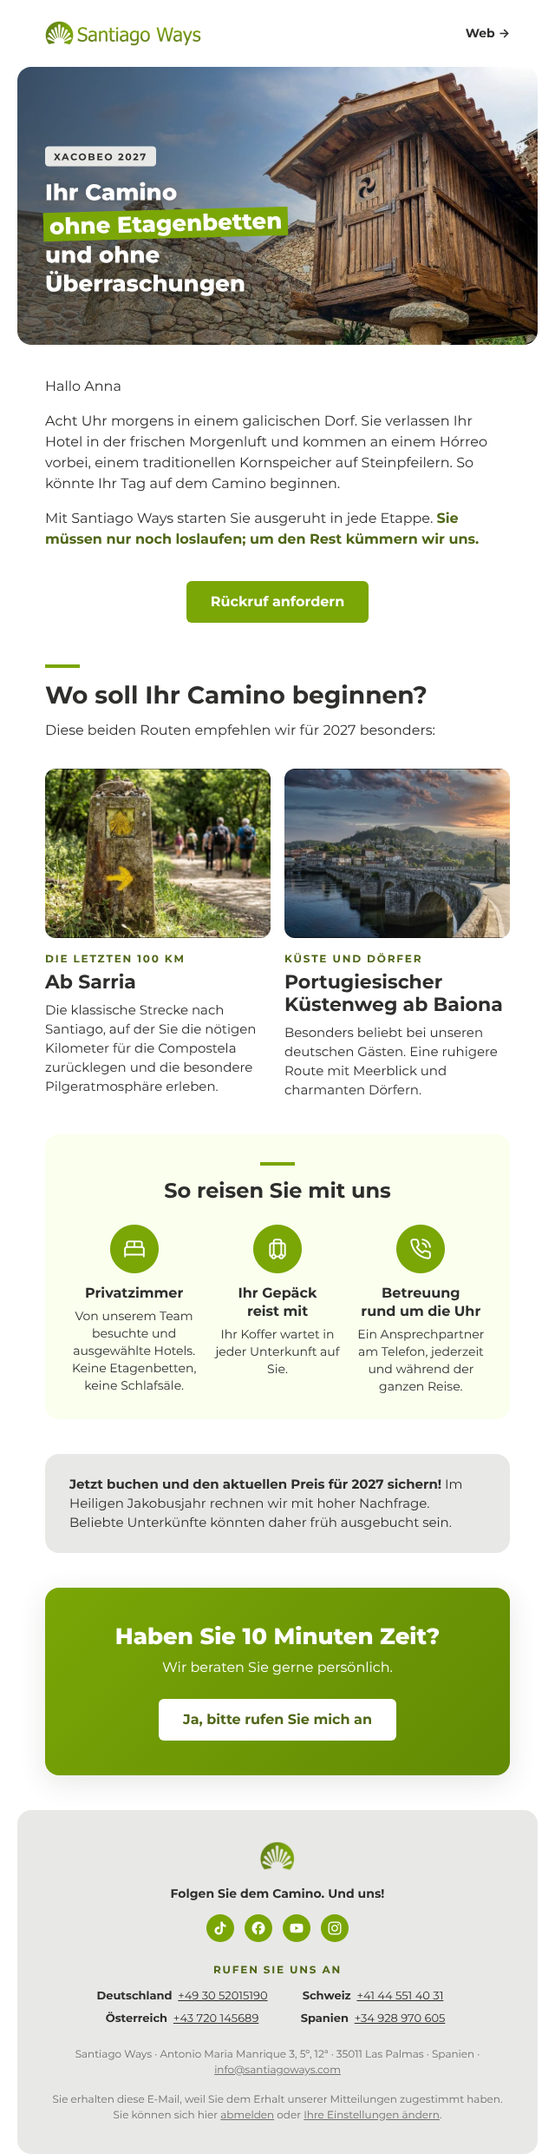
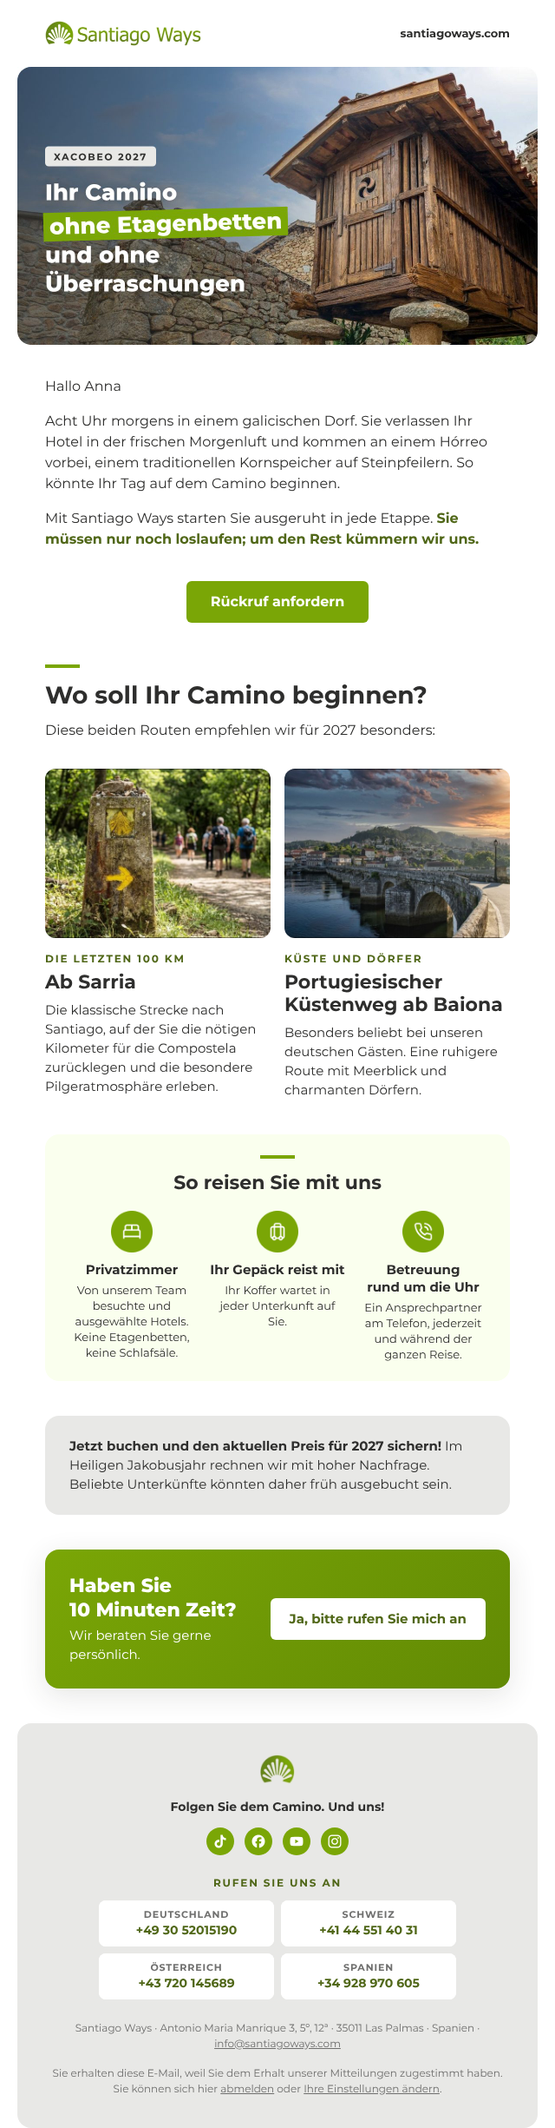
Compacta ventajas y cierre, teléfonos del pie en tarjetas y dominio en la cabecera
Claude-Session: https://claude.ai/code/session_01Me985ukrjjPqHCtXmJhT7t

Changed region(s): [[0.0312, 0.0, 0.9688, 0.9927], [0.0938, 0.0, 0.125, 0.031]]

diff --git a/emails/2026-10-push-de-envio1/email.html b/emails/2026-10-push-de-envio1/email.html
@@ -33,9 +33,14 @@
       .ruta-img { width: 100% !important; max-width: 100% !important; height: auto !important; }
       .ruta-t { font-size: 17px !important; line-height: 21px !important; }
       .ruta-p { font-size: 14px !important; line-height: 20px !important; }
-      .ventaja { display: block !important; width: 100% !important; padding: 0 0 22px !important; }
-      .tel-pie { display: block !important; width: 100% !important; }
-      .cierre { padding: 32px 16px !important; }
+      .ventaja { padding: 0 3px !important; }
+      .ventaja-ico { width: 40px !important; height: 40px !important; }
+      .ventaja-t { font-size: 13px !important; line-height: 17px !important; }
+      .ventaja-p { font-size: 12px !important; line-height: 16px !important; }
+      .cierre { padding: 24px 20px !important; }
+      .cierre-txt, .cierre-btn { display: block !important; width: 100% !important; text-align: left !important; }
+      .cierre-btn { padding: 16px 0 0 !important; }
+      .cierre-btn-t { float: none !important; }
     }
   </style>
 </head>
@@ -57,8 +62,8 @@
                   <td align="left" valign="middle">
                     <a href="https://santiagoways.com/de/?utm_source=zoho_campaigns&amp;utm_medium=newsletter&amp;utm_campaign=push_de&amp;utm_content=envio1" target="_blank"><img src="https://campaigns.zoho.com/campaigns/org635901702/ImageDisplayAction.do?imgName=logo_santiago_ways.png&amp;folderId=764465000000446002&amp;currentTime=1791994950368&amp;zx=1365ac70f" width="180" alt="Santiago Ways" style="display:block; border:0; width:180px; max-width:180px; height:auto;"></a>
                   </td>
-                  <td align="right" valign="middle" style="font-family:'Montserrat', 'Century Gothic', 'Avenir Next', Avenir, 'Segoe UI', Arial, Helvetica, sans-serif; font-size:14px; line-height:20px; font-weight:700;">
-                    <a href="https://santiagoways.com/de/?utm_source=zoho_campaigns&amp;utm_medium=newsletter&amp;utm_campaign=push_de&amp;utm_content=envio1" target="_blank" style="color:#2E2E2D; text-decoration:none;">Web&nbsp;&rarr;</a>
+                  <td align="right" valign="middle" style="font-family:'Montserrat', 'Century Gothic', 'Avenir Next', Avenir, 'Segoe UI', Arial, Helvetica, sans-serif; font-size:13px; line-height:20px; font-weight:600;">
+                    <a href="https://santiagoways.com/de/?utm_source=zoho_campaigns&amp;utm_medium=newsletter&amp;utm_campaign=push_de&amp;utm_content=envio1" target="_blank" style="color:#2E2E2D; text-decoration:none;">santiagoways.com</a>
                   </td>
                 </tr>
               </table>
@@ -131,25 +136,25 @@
             <td class="pad" style="padding:0 32px 40px;">
               <table role="presentation" width="100%" cellpadding="0" cellspacing="0" border="0">
                 <tr>
-                  <td bgcolor="#FAFFEE" style="background-color:#FAFFEE; border-radius:16px; padding:32px 20px 28px; font-family:'Montserrat', 'Century Gothic', 'Avenir Next', Avenir, 'Segoe UI', Arial, Helvetica, sans-serif;">
+                  <td bgcolor="#FAFFEE" style="background-color:#FAFFEE; border-radius:16px; padding:24px 16px 22px; font-family:'Montserrat', 'Century Gothic', 'Avenir Next', Avenir, 'Segoe UI', Arial, Helvetica, sans-serif;">
                     <table role="presentation" cellpadding="0" cellspacing="0" border="0" align="center" style="margin:0 auto 14px;"><tr><td width="40" height="4" bgcolor="#7AA606" style="width:40px; height:4px; background-color:#7AA606; font-size:0; line-height:0;">&nbsp;</td></tr></table>
-                    <h2 class="h2" style="margin:0 0 24px; font-family:'Montserrat', 'Century Gothic', 'Avenir Next', Avenir, 'Segoe UI', Arial, Helvetica, sans-serif; font-size:24px; line-height:30px; font-weight:700; color:#2E2E2D; text-align:center;">So reisen Sie mit uns</h2>
+                    <h2 class="h2 ventaja-h" style="margin:0 0 18px; font-family:'Montserrat', 'Century Gothic', 'Avenir Next', Avenir, 'Segoe UI', Arial, Helvetica, sans-serif; font-size:22px; line-height:28px; font-weight:700; color:#2E2E2D; text-align:center;">So reisen Sie mit uns</h2>
                     <table role="presentation" width="100%" cellpadding="0" cellspacing="0" border="0">
                       <tr>
-                        <td class="col ventaja" width="33%" valign="top" align="center" style="width:33%; padding:0 8px; font-family:'Montserrat', 'Century Gothic', 'Avenir Next', Avenir, 'Segoe UI', Arial, Helvetica, sans-serif; color:#2E2E2D;">
-                          <img src="img/ventaja-habitacion.png" width="56" height="56" alt="" style="display:block; border:0; width:56px; height:56px; margin:0 auto 12px;">
-                          <p style="margin:0 0 6px; font-size:16px; line-height:21px; font-weight:700; color:#2E2E2D;">Privatzimmer</p>
-                          <p style="margin:0; font-size:14px; line-height:20px; color:#2E2E2D;">Von unserem Team besuchte und ausgewählte Hotels. Keine Etagenbetten, keine Schlafsäle.</p>
+                        <td class="ventaja" width="33%" valign="top" align="center" style="width:33%; padding:0 6px; font-family:'Montserrat', 'Century Gothic', 'Avenir Next', Avenir, 'Segoe UI', Arial, Helvetica, sans-serif; color:#2E2E2D;">
+                          <img src="img/ventaja-habitacion.png" class="ventaja-ico" width="48" height="48" alt="" style="display:block; border:0; width:48px; height:48px; margin:0 auto 10px;">
+                          <p class="ventaja-t" style="margin:0 0 4px; font-size:15px; line-height:20px; font-weight:700; color:#2E2E2D;">Privatzimmer</p>
+                          <p class="ventaja-p" style="margin:0; font-size:13px; line-height:18px; color:#2E2E2D;">Von unserem Team besuchte und ausgewählte Hotels. Keine Etagenbetten, keine Schlafsäle.</p>
                         </td>
-                        <td class="col ventaja" width="33%" valign="top" align="center" style="width:33%; padding:0 8px; font-family:'Montserrat', 'Century Gothic', 'Avenir Next', Avenir, 'Segoe UI', Arial, Helvetica, sans-serif; color:#2E2E2D;">
-                          <img src="img/ventaja-equipaje.png" width="56" height="56" alt="" style="display:block; border:0; width:56px; height:56px; margin:0 auto 12px;">
-                          <p style="margin:0 0 6px; font-size:16px; line-height:21px; font-weight:700; color:#2E2E2D;">Ihr Gepäck reist&nbsp;mit</p>
-                          <p style="margin:0; font-size:14px; line-height:20px; color:#2E2E2D;">Ihr Koffer wartet in jeder Unterkunft auf Sie.</p>
+                        <td class="ventaja" width="33%" valign="top" align="center" style="width:33%; padding:0 6px; font-family:'Montserrat', 'Century Gothic', 'Avenir Next', Avenir, 'Segoe UI', Arial, Helvetica, sans-serif; color:#2E2E2D;">
+                          <img src="img/ventaja-equipaje.png" class="ventaja-ico" width="48" height="48" alt="" style="display:block; border:0; width:48px; height:48px; margin:0 auto 10px;">
+                          <p class="ventaja-t" style="margin:0 0 4px; font-size:15px; line-height:20px; font-weight:700; color:#2E2E2D;">Ihr Gepäck reist&nbsp;mit</p>
+                          <p class="ventaja-p" style="margin:0; font-size:13px; line-height:18px; color:#2E2E2D;">Ihr Koffer wartet in jeder Unterkunft auf Sie.</p>
                         </td>
-                        <td class="col ventaja" width="33%" valign="top" align="center" style="width:33%; padding:0 8px; font-family:'Montserrat', 'Century Gothic', 'Avenir Next', Avenir, 'Segoe UI', Arial, Helvetica, sans-serif; color:#2E2E2D;">
-                          <img src="img/ventaja-asistencia.png" width="56" height="56" alt="" style="display:block; border:0; width:56px; height:56px; margin:0 auto 12px;">
-                          <p style="margin:0 0 6px; font-size:16px; line-height:21px; font-weight:700; color:#2E2E2D;">Betreuung rund&nbsp;um&nbsp;die&nbsp;Uhr</p>
-                          <p style="margin:0; font-size:14px; line-height:20px; color:#2E2E2D;">Ein Ansprechpartner am Telefon, jederzeit und während der ganzen Reise.</p>
+                        <td class="ventaja" width="33%" valign="top" align="center" style="width:33%; padding:0 6px; font-family:'Montserrat', 'Century Gothic', 'Avenir Next', Avenir, 'Segoe UI', Arial, Helvetica, sans-serif; color:#2E2E2D;">
+                          <img src="img/ventaja-asistencia.png" class="ventaja-ico" width="48" height="48" alt="" style="display:block; border:0; width:48px; height:48px; margin:0 auto 10px;">
+                          <p class="ventaja-t" style="margin:0 0 4px; font-size:15px; line-height:20px; font-weight:700; color:#2E2E2D;">Betreuung rund&nbsp;um&nbsp;die&nbsp;Uhr</p>
+                          <p class="ventaja-p" style="margin:0; font-size:13px; line-height:18px; color:#2E2E2D;">Ein Ansprechpartner am Telefon, jederzeit und während der ganzen Reise.</p>
                         </td>
                       </tr>
                     </table>
@@ -177,13 +182,21 @@
             <td class="pad" style="padding:0 32px 40px;">
               <table role="presentation" width="100%" cellpadding="0" cellspacing="0" border="0">
                 <tr>
-                  <td class="cierre" bgcolor="#7AA606" align="center" style="background-color:#7AA606; background-image:linear-gradient(135deg,#7AA606 0%,#628A04 100%); border-radius:16px; box-shadow:0 8px 32px rgba(46,46,45,0.12); padding:40px 32px; font-family:'Montserrat', 'Century Gothic', 'Avenir Next', Avenir, 'Segoe UI', Arial, Helvetica, sans-serif; color:#FFFFFF;">
-                    <p class="h2" style="margin:0 0 8px; font-size:26px; line-height:32px; font-weight:800; color:#FFFFFF;">Haben Sie 10&nbsp;Minuten Zeit?</p>
-                    <p style="margin:0 0 24px; font-size:16px; line-height:24px; font-weight:400; color:#FFFFFF;">Wir beraten Sie gerne persönlich.</p>
-                    <table role="presentation" cellpadding="0" cellspacing="0" border="0" align="center">
+                  <td class="cierre" bgcolor="#7AA606" style="background-color:#7AA606; background-image:linear-gradient(135deg,#7AA606 0%,#628A04 100%); border-radius:16px; box-shadow:0 8px 32px rgba(46,46,45,0.12); padding:28px 28px; font-family:'Montserrat', 'Century Gothic', 'Avenir Next', Avenir, 'Segoe UI', Arial, Helvetica, sans-serif; color:#FFFFFF;">
+                    <table role="presentation" width="100%" cellpadding="0" cellspacing="0" border="0">
                       <tr>
-                        <td bgcolor="#FFFFFF" style="background-color:#FFFFFF; border-radius:6px;">
-                          <a href="https://forms.zohopublic.com/santiagoways/form/rueckruf/formperma/4A1Vr0SY3x6PB5LVbDz1jbqyLyayzFhMqCk7CxDHHfw" target="_blank" style="display:inline-block; padding:14px 28px; font-family:'Montserrat', 'Century Gothic', 'Avenir Next', Avenir, 'Segoe UI', Arial, Helvetica, sans-serif; font-size:16px; line-height:20px; font-weight:700; color:#506718; text-decoration:none; border-radius:6px;">Ja, bitte rufen Sie mich an</a>
+                        <td class="cierre-txt" valign="middle" style="font-family:'Montserrat', 'Century Gothic', 'Avenir Next', Avenir, 'Segoe UI', Arial, Helvetica, sans-serif; color:#FFFFFF;">
+                          <p style="margin:0 0 4px; font-size:22px; line-height:28px; font-weight:800; color:#FFFFFF;">Haben Sie 10&nbsp;Minuten Zeit?</p>
+                          <p style="margin:0; font-size:15px; line-height:22px; font-weight:400; color:#FFFFFF;">Wir beraten Sie gerne persönlich.</p>
+                        </td>
+                        <td class="cierre-btn" valign="middle" align="right" style="padding-left:16px;">
+                          <table role="presentation" cellpadding="0" cellspacing="0" border="0" align="right" class="cierre-btn-t">
+                            <tr>
+                              <td bgcolor="#FFFFFF" style="background-color:#FFFFFF; border-radius:6px;">
+                                <a href="https://forms.zohopublic.com/santiagoways/form/rueckruf/formperma/4A1Vr0SY3x6PB5LVbDz1jbqyLyayzFhMqCk7CxDHHfw" target="_blank" style="display:inline-block; padding:14px 22px; font-family:'Montserrat', 'Century Gothic', 'Avenir Next', Avenir, 'Segoe UI', Arial, Helvetica, sans-serif; font-size:15px; line-height:20px; font-weight:700; color:#506718; text-decoration:none; border-radius:6px; white-space:nowrap;">Ja, bitte rufen Sie mich an</a>
+                              </td>
+                            </tr>
+                          </table>
                         </td>
                       </tr>
                     </table>
@@ -207,9 +220,9 @@
                 </tr>
               </table>
               <p style="margin:0 0 8px; font-size:12px; line-height:16px; font-weight:700; letter-spacing:0.15em; text-transform:uppercase; color:#506718;">Rufen Sie uns an</p>
-              <table role="presentation" width="100%" cellpadding="0" cellspacing="0" border="0" style="margin:0 auto 20px; max-width:440px;">
-                <tr><td class="tel-pie" width="50%" align="center" style="width:50%; padding:4px 6px; font-family:'Montserrat', 'Century Gothic', 'Avenir Next', Avenir, 'Segoe UI', Arial, Helvetica, sans-serif; font-size:13px; line-height:18px; color:#2E2E2D;"><span style="font-weight:700;">Deutschland</span>&nbsp; <a href="tel:+493052015190" style="color:#2E2E2D; text-decoration:underline;">+49 30 52015190</a></td><td class="tel-pie" width="50%" align="center" style="width:50%; padding:4px 6px; font-family:'Montserrat', 'Century Gothic', 'Avenir Next', Avenir, 'Segoe UI', Arial, Helvetica, sans-serif; font-size:13px; line-height:18px; color:#2E2E2D;"><span style="font-weight:700;">Schweiz</span>&nbsp; <a href="tel:+41445514031" style="color:#2E2E2D; text-decoration:underline;">+41 44 551 40 31</a></td></tr>
-                <tr><td class="tel-pie" width="50%" align="center" style="width:50%; padding:4px 6px; font-family:'Montserrat', 'Century Gothic', 'Avenir Next', Avenir, 'Segoe UI', Arial, Helvetica, sans-serif; font-size:13px; line-height:18px; color:#2E2E2D;"><span style="font-weight:700;">Österreich</span>&nbsp; <a href="tel:+43720145689" style="color:#2E2E2D; text-decoration:underline;">+43 720 145689</a></td><td class="tel-pie" width="50%" align="center" style="width:50%; padding:4px 6px; font-family:'Montserrat', 'Century Gothic', 'Avenir Next', Avenir, 'Segoe UI', Arial, Helvetica, sans-serif; font-size:13px; line-height:18px; color:#2E2E2D;"><span style="font-weight:700;">Spanien</span>&nbsp; <a href="tel:+34928970605" style="color:#2E2E2D; text-decoration:underline;">+34 928 970 605</a></td></tr>
+              <table role="presentation" width="100%" cellpadding="0" cellspacing="0" border="0" style="margin:0 auto 20px; max-width:420px;">
+                <tr><td class="tel-pie" width="50%" valign="top" style="width:50%; padding:4px;"><table role="presentation" width="100%" cellpadding="0" cellspacing="0" border="0" style="border-collapse:separate; background-color:#FFFFFF; border-radius:8px;"><tr><td align="center" bgcolor="#FFFFFF" style="background-color:#FFFFFF; border-radius:8px; font-family:'Montserrat', 'Century Gothic', 'Avenir Next', Avenir, 'Segoe UI', Arial, Helvetica, sans-serif;"><a href="tel:+493052015190" style="display:block; padding:9px 6px; color:#2E2E2D; text-decoration:none;"><span style="display:block; font-size:11px; line-height:14px; font-weight:700; letter-spacing:0.08em; text-transform:uppercase; color:#6F6F6E;">Deutschland</span><span style="display:block; margin-top:2px; font-size:14px; line-height:19px; font-weight:700; color:#506718;">+49 30 52015190</span></a></td></tr></table></td><td class="tel-pie" width="50%" valign="top" style="width:50%; padding:4px;"><table role="presentation" width="100%" cellpadding="0" cellspacing="0" border="0" style="border-collapse:separate; background-color:#FFFFFF; border-radius:8px;"><tr><td align="center" bgcolor="#FFFFFF" style="background-color:#FFFFFF; border-radius:8px; font-family:'Montserrat', 'Century Gothic', 'Avenir Next', Avenir, 'Segoe UI', Arial, Helvetica, sans-serif;"><a href="tel:+41445514031" style="display:block; padding:9px 6px; color:#2E2E2D; text-decoration:none;"><span style="display:block; font-size:11px; line-height:14px; font-weight:700; letter-spacing:0.08em; text-transform:uppercase; color:#6F6F6E;">Schweiz</span><span style="display:block; margin-top:2px; font-size:14px; line-height:19px; font-weight:700; color:#506718;">+41 44 551 40 31</span></a></td></tr></table></td></tr>
+                <tr><td class="tel-pie" width="50%" valign="top" style="width:50%; padding:4px;"><table role="presentation" width="100%" cellpadding="0" cellspacing="0" border="0" style="border-collapse:separate; background-color:#FFFFFF; border-radius:8px;"><tr><td align="center" bgcolor="#FFFFFF" style="background-color:#FFFFFF; border-radius:8px; font-family:'Montserrat', 'Century Gothic', 'Avenir Next', Avenir, 'Segoe UI', Arial, Helvetica, sans-serif;"><a href="tel:+43720145689" style="display:block; padding:9px 6px; color:#2E2E2D; text-decoration:none;"><span style="display:block; font-size:11px; line-height:14px; font-weight:700; letter-spacing:0.08em; text-transform:uppercase; color:#6F6F6E;">Österreich</span><span style="display:block; margin-top:2px; font-size:14px; line-height:19px; font-weight:700; color:#506718;">+43 720 145689</span></a></td></tr></table></td><td class="tel-pie" width="50%" valign="top" style="width:50%; padding:4px;"><table role="presentation" width="100%" cellpadding="0" cellspacing="0" border="0" style="border-collapse:separate; background-color:#FFFFFF; border-radius:8px;"><tr><td align="center" bgcolor="#FFFFFF" style="background-color:#FFFFFF; border-radius:8px; font-family:'Montserrat', 'Century Gothic', 'Avenir Next', Avenir, 'Segoe UI', Arial, Helvetica, sans-serif;"><a href="tel:+34928970605" style="display:block; padding:9px 6px; color:#2E2E2D; text-decoration:none;"><span style="display:block; font-size:11px; line-height:14px; font-weight:700; letter-spacing:0.08em; text-transform:uppercase; color:#6F6F6E;">Spanien</span><span style="display:block; margin-top:2px; font-size:14px; line-height:19px; font-weight:700; color:#506718;">+34 928 970 605</span></a></td></tr></table></td></tr>
               </table>
               <p style="margin:0 0 16px; font-size:12px; line-height:18px; color:#6F6F6E;">Santiago Ways · Antonio Maria Manrique 3, 5º, 12ª · 35011 Las Palmas · Spanien · <a href="mailto:info@santiagoways.com" style="color:#6F6F6E; text-decoration:underline;">info@santiagoways.com</a></p>
               <p style="margin:0; font-size:12px; line-height:18px; color:#6F6F6E;">Sie erhalten diese E-Mail, weil Sie dem Erhalt unserer Mitteilungen zugestimmt haben.<br>Sie können sich hier <a href="$[LI:UNSUBSCRIBE]$" target="_blank" style="color:#6F6F6E; text-decoration:underline;">abmelden</a> oder <a href="$[LI:SUB_PREF]$" target="_blank" style="color:#6F6F6E; text-decoration:underline;">Ihre Einstellungen ändern</a>.</p>

diff --git a/emails/2026-10-push-de-envio1/zoho/push-de-envio1.html b/emails/2026-10-push-de-envio1/zoho/push-de-envio1.html
@@ -33,9 +33,14 @@
       .ruta-img { width: 100% !important; max-width: 100% !important; height: auto !important; }
       .ruta-t { font-size: 17px !important; line-height: 21px !important; }
       .ruta-p { font-size: 14px !important; line-height: 20px !important; }
-      .ventaja { display: block !important; width: 100% !important; padding: 0 0 22px !important; }
-      .tel-pie { display: block !important; width: 100% !important; }
-      .cierre { padding: 32px 16px !important; }
+      .ventaja { padding: 0 3px !important; }
+      .ventaja-ico { width: 40px !important; height: 40px !important; }
+      .ventaja-t { font-size: 13px !important; line-height: 17px !important; }
+      .ventaja-p { font-size: 12px !important; line-height: 16px !important; }
+      .cierre { padding: 24px 20px !important; }
+      .cierre-txt, .cierre-btn { display: block !important; width: 100% !important; text-align: left !important; }
+      .cierre-btn { padding: 16px 0 0 !important; }
+      .cierre-btn-t { float: none !important; }
     }
   </style>
 </head>
@@ -57,8 +62,8 @@
                   <td align="left" valign="middle">
                     <a href="https://santiagoways.com/de/?utm_source=zoho_campaigns&amp;utm_medium=newsletter&amp;utm_campaign=push_de&amp;utm_content=envio1" target="_blank"><img src="images/logo-santiago-ways.png" width="180" alt="Santiago Ways" style="display:block; border:0; width:180px; max-width:180px; height:auto;"></a>
                   </td>
-                  <td align="right" valign="middle" style="font-family:'Montserrat', 'Century Gothic', 'Avenir Next', Avenir, 'Segoe UI', Arial, Helvetica, sans-serif; font-size:14px; line-height:20px; font-weight:700;">
-                    <a href="https://santiagoways.com/de/?utm_source=zoho_campaigns&amp;utm_medium=newsletter&amp;utm_campaign=push_de&amp;utm_content=envio1" target="_blank" style="color:#2E2E2D; text-decoration:none;">Web&nbsp;&rarr;</a>
+                  <td align="right" valign="middle" style="font-family:'Montserrat', 'Century Gothic', 'Avenir Next', Avenir, 'Segoe UI', Arial, Helvetica, sans-serif; font-size:13px; line-height:20px; font-weight:600;">
+                    <a href="https://santiagoways.com/de/?utm_source=zoho_campaigns&amp;utm_medium=newsletter&amp;utm_campaign=push_de&amp;utm_content=envio1" target="_blank" style="color:#2E2E2D; text-decoration:none;">santiagoways.com</a>
                   </td>
                 </tr>
               </table>
@@ -131,25 +136,25 @@
             <td class="pad" style="padding:0 32px 40px;">
               <table role="presentation" width="100%" cellpadding="0" cellspacing="0" border="0">
                 <tr>
-                  <td bgcolor="#FAFFEE" style="background-color:#FAFFEE; border-radius:16px; padding:32px 20px 28px; font-family:'Montserrat', 'Century Gothic', 'Avenir Next', Avenir, 'Segoe UI', Arial, Helvetica, sans-serif;">
+                  <td bgcolor="#FAFFEE" style="background-color:#FAFFEE; border-radius:16px; padding:24px 16px 22px; font-family:'Montserrat', 'Century Gothic', 'Avenir Next', Avenir, 'Segoe UI', Arial, Helvetica, sans-serif;">
                     <table role="presentation" cellpadding="0" cellspacing="0" border="0" align="center" style="margin:0 auto 14px;"><tr><td width="40" height="4" bgcolor="#7AA606" style="width:40px; height:4px; background-color:#7AA606; font-size:0; line-height:0;">&nbsp;</td></tr></table>
-                    <h2 class="h2" style="margin:0 0 24px; font-family:'Montserrat', 'Century Gothic', 'Avenir Next', Avenir, 'Segoe UI', Arial, Helvetica, sans-serif; font-size:24px; line-height:30px; font-weight:700; color:#2E2E2D; text-align:center;">So reisen Sie mit uns</h2>
+                    <h2 class="h2 ventaja-h" style="margin:0 0 18px; font-family:'Montserrat', 'Century Gothic', 'Avenir Next', Avenir, 'Segoe UI', Arial, Helvetica, sans-serif; font-size:22px; line-height:28px; font-weight:700; color:#2E2E2D; text-align:center;">So reisen Sie mit uns</h2>
                     <table role="presentation" width="100%" cellpadding="0" cellspacing="0" border="0">
                       <tr>
-                        <td class="col ventaja" width="33%" valign="top" align="center" style="width:33%; padding:0 8px; font-family:'Montserrat', 'Century Gothic', 'Avenir Next', Avenir, 'Segoe UI', Arial, Helvetica, sans-serif; color:#2E2E2D;">
-                          <img src="images/ventaja-habitacion.png" width="56" height="56" alt="" style="display:block; border:0; width:56px; height:56px; margin:0 auto 12px;">
-                          <p style="margin:0 0 6px; font-size:16px; line-height:21px; font-weight:700; color:#2E2E2D;">Privatzimmer</p>
-                          <p style="margin:0; font-size:14px; line-height:20px; color:#2E2E2D;">Von unserem Team besuchte und ausgew&#228;hlte Hotels. Keine Etagenbetten, keine Schlafs&#228;le.</p>
+                        <td class="ventaja" width="33%" valign="top" align="center" style="width:33%; padding:0 6px; font-family:'Montserrat', 'Century Gothic', 'Avenir Next', Avenir, 'Segoe UI', Arial, Helvetica, sans-serif; color:#2E2E2D;">
+                          <img src="images/ventaja-habitacion.png" class="ventaja-ico" width="48" height="48" alt="" style="display:block; border:0; width:48px; height:48px; margin:0 auto 10px;">
+                          <p class="ventaja-t" style="margin:0 0 4px; font-size:15px; line-height:20px; font-weight:700; color:#2E2E2D;">Privatzimmer</p>
+                          <p class="ventaja-p" style="margin:0; font-size:13px; line-height:18px; color:#2E2E2D;">Von unserem Team besuchte und ausgew&#228;hlte Hotels. Keine Etagenbetten, keine Schlafs&#228;le.</p>
                         </td>
-                        <td class="col ventaja" width="33%" valign="top" align="center" style="width:33%; padding:0 8px; font-family:'Montserrat', 'Century Gothic', 'Avenir Next', Avenir, 'Segoe UI', Arial, Helvetica, sans-serif; color:#2E2E2D;">
-                          <img src="images/ventaja-equipaje.png" width="56" height="56" alt="" style="display:block; border:0; width:56px; height:56px; margin:0 auto 12px;">
-                          <p style="margin:0 0 6px; font-size:16px; line-height:21px; font-weight:700; color:#2E2E2D;">Ihr Gep&#228;ck reist&nbsp;mit</p>
-                          <p style="margin:0; font-size:14px; line-height:20px; color:#2E2E2D;">Ihr Koffer wartet in jeder Unterkunft auf Sie.</p>
+                        <td class="ventaja" width="33%" valign="top" align="center" style="width:33%; padding:0 6px; font-family:'Montserrat', 'Century Gothic', 'Avenir Next', Avenir, 'Segoe UI', Arial, Helvetica, sans-serif; color:#2E2E2D;">
+                          <img src="images/ventaja-equipaje.png" class="ventaja-ico" width="48" height="48" alt="" style="display:block; border:0; width:48px; height:48px; margin:0 auto 10px;">
+                          <p class="ventaja-t" style="margin:0 0 4px; font-size:15px; line-height:20px; font-weight:700; color:#2E2E2D;">Ihr Gep&#228;ck reist&nbsp;mit</p>
+                          <p class="ventaja-p" style="margin:0; font-size:13px; line-height:18px; color:#2E2E2D;">Ihr Koffer wartet in jeder Unterkunft auf Sie.</p>
                         </td>
-                        <td class="col ventaja" width="33%" valign="top" align="center" style="width:33%; padding:0 8px; font-family:'Montserrat', 'Century Gothic', 'Avenir Next', Avenir, 'Segoe UI', Arial, Helvetica, sans-serif; color:#2E2E2D;">
-                          <img src="images/ventaja-asistencia.png" width="56" height="56" alt="" style="display:block; border:0; width:56px; height:56px; margin:0 auto 12px;">
-                          <p style="margin:0 0 6px; font-size:16px; line-height:21px; font-weight:700; color:#2E2E2D;">Betreuung rund&nbsp;um&nbsp;die&nbsp;Uhr</p>
-                          <p style="margin:0; font-size:14px; line-height:20px; color:#2E2E2D;">Ein Ansprechpartner am Telefon, jederzeit und w&#228;hrend der ganzen Reise.</p>
+                        <td class="ventaja" width="33%" valign="top" align="center" style="width:33%; padding:0 6px; font-family:'Montserrat', 'Century Gothic', 'Avenir Next', Avenir, 'Segoe UI', Arial, Helvetica, sans-serif; color:#2E2E2D;">
+                          <img src="images/ventaja-asistencia.png" class="ventaja-ico" width="48" height="48" alt="" style="display:block; border:0; width:48px; height:48px; margin:0 auto 10px;">
+                          <p class="ventaja-t" style="margin:0 0 4px; font-size:15px; line-height:20px; font-weight:700; color:#2E2E2D;">Betreuung rund&nbsp;um&nbsp;die&nbsp;Uhr</p>
+                          <p class="ventaja-p" style="margin:0; font-size:13px; line-height:18px; color:#2E2E2D;">Ein Ansprechpartner am Telefon, jederzeit und w&#228;hrend der ganzen Reise.</p>
                         </td>
                       </tr>
                     </table>
@@ -177,13 +182,21 @@
             <td class="pad" style="padding:0 32px 40px;">
               <table role="presentation" width="100%" cellpadding="0" cellspacing="0" border="0">
                 <tr>
-                  <td class="cierre" bgcolor="#7AA606" align="center" style="background-color:#7AA606; background-image:linear-gradient(135deg,#7AA606 0%,#628A04 100%); border-radius:16px; box-shadow:0 8px 32px rgba(46,46,45,0.12); padding:40px 32px; font-family:'Montserrat', 'Century Gothic', 'Avenir Next', Avenir, 'Segoe UI', Arial, Helvetica, sans-serif; color:#FFFFFF;">
-                    <p class="h2" style="margin:0 0 8px; font-size:26px; line-height:32px; font-weight:800; color:#FFFFFF;">Haben Sie 10&nbsp;Minuten Zeit?</p>
-                    <p style="margin:0 0 24px; font-size:16px; line-height:24px; font-weight:400; color:#FFFFFF;">Wir beraten Sie gerne pers&#246;nlich.</p>
-                    <table role="presentation" cellpadding="0" cellspacing="0" border="0" align="center">
+                  <td class="cierre" bgcolor="#7AA606" style="background-color:#7AA606; background-image:linear-gradient(135deg,#7AA606 0%,#628A04 100%); border-radius:16px; box-shadow:0 8px 32px rgba(46,46,45,0.12); padding:28px 28px; font-family:'Montserrat', 'Century Gothic', 'Avenir Next', Avenir, 'Segoe UI', Arial, Helvetica, sans-serif; color:#FFFFFF;">
+                    <table role="presentation" width="100%" cellpadding="0" cellspacing="0" border="0">
                       <tr>
-                        <td bgcolor="#FFFFFF" style="background-color:#FFFFFF; border-radius:6px;">
-                          <a href="https://forms.zohopublic.com/santiagoways/form/rueckruf/formperma/4A1Vr0SY3x6PB5LVbDz1jbqyLyayzFhMqCk7CxDHHfw" target="_blank" style="display:inline-block; padding:14px 28px; font-family:'Montserrat', 'Century Gothic', 'Avenir Next', Avenir, 'Segoe UI', Arial, Helvetica, sans-serif; font-size:16px; line-height:20px; font-weight:700; color:#506718; text-decoration:none; border-radius:6px;">Ja, bitte rufen Sie mich an</a>
+                        <td class="cierre-txt" valign="middle" style="font-family:'Montserrat', 'Century Gothic', 'Avenir Next', Avenir, 'Segoe UI', Arial, Helvetica, sans-serif; color:#FFFFFF;">
+                          <p style="margin:0 0 4px; font-size:22px; line-height:28px; font-weight:800; color:#FFFFFF;">Haben Sie 10&nbsp;Minuten Zeit?</p>
+                          <p style="margin:0; font-size:15px; line-height:22px; font-weight:400; color:#FFFFFF;">Wir beraten Sie gerne pers&#246;nlich.</p>
+                        </td>
+                        <td class="cierre-btn" valign="middle" align="right" style="padding-left:16px;">
+                          <table role="presentation" cellpadding="0" cellspacing="0" border="0" align="right" class="cierre-btn-t">
+                            <tr>
+                              <td bgcolor="#FFFFFF" style="background-color:#FFFFFF; border-radius:6px;">
+                                <a href="https://forms.zohopublic.com/santiagoways/form/rueckruf/formperma/4A1Vr0SY3x6PB5LVbDz1jbqyLyayzFhMqCk7CxDHHfw" target="_blank" style="display:inline-block; padding:14px 22px; font-family:'Montserrat', 'Century Gothic', 'Avenir Next', Avenir, 'Segoe UI', Arial, Helvetica, sans-serif; font-size:15px; line-height:20px; font-weight:700; color:#506718; text-decoration:none; border-radius:6px; white-space:nowrap;">Ja, bitte rufen Sie mich an</a>
+                              </td>
+                            </tr>
+                          </table>
                         </td>
                       </tr>
                     </table>
@@ -207,9 +220,9 @@
                 </tr>
               </table>
               <p style="margin:0 0 8px; font-size:12px; line-height:16px; font-weight:700; letter-spacing:0.15em; text-transform:uppercase; color:#506718;">Rufen Sie uns an</p>
-              <table role="presentation" width="100%" cellpadding="0" cellspacing="0" border="0" style="margin:0 auto 20px; max-width:440px;">
-                <tr><td class="tel-pie" width="50%" align="center" style="width:50%; padding:4px 6px; font-family:'Montserrat', 'Century Gothic', 'Avenir Next', Avenir, 'Segoe UI', Arial, Helvetica, sans-serif; font-size:13px; line-height:18px; color:#2E2E2D;"><span style="font-weight:700;">Deutschland</span>&nbsp; <a href="tel:+493052015190" style="color:#2E2E2D; text-decoration:underline;">+49 30 52015190</a></td><td class="tel-pie" width="50%" align="center" style="width:50%; padding:4px 6px; font-family:'Montserrat', 'Century Gothic', 'Avenir Next', Avenir, 'Segoe UI', Arial, Helvetica, sans-serif; font-size:13px; line-height:18px; color:#2E2E2D;"><span style="font-weight:700;">Schweiz</span>&nbsp; <a href="tel:+41445514031" style="color:#2E2E2D; text-decoration:underline;">+41 44 551 40 31</a></td></tr>
-                <tr><td class="tel-pie" width="50%" align="center" style="width:50%; padding:4px 6px; font-family:'Montserrat', 'Century Gothic', 'Avenir Next', Avenir, 'Segoe UI', Arial, Helvetica, sans-serif; font-size:13px; line-height:18px; color:#2E2E2D;"><span style="font-weight:700;">&#214;sterreich</span>&nbsp; <a href="tel:+43720145689" style="color:#2E2E2D; text-decoration:underline;">+43 720 145689</a></td><td class="tel-pie" width="50%" align="center" style="width:50%; padding:4px 6px; font-family:'Montserrat', 'Century Gothic', 'Avenir Next', Avenir, 'Segoe UI', Arial, Helvetica, sans-serif; font-size:13px; line-height:18px; color:#2E2E2D;"><span style="font-weight:700;">Spanien</span>&nbsp; <a href="tel:+34928970605" style="color:#2E2E2D; text-decoration:underline;">+34 928 970 605</a></td></tr>
+              <table role="presentation" width="100%" cellpadding="0" cellspacing="0" border="0" style="margin:0 auto 20px; max-width:420px;">
+                <tr><td class="tel-pie" width="50%" valign="top" style="width:50%; padding:4px;"><table role="presentation" width="100%" cellpadding="0" cellspacing="0" border="0" style="border-collapse:separate; background-color:#FFFFFF; border-radius:8px;"><tr><td align="center" bgcolor="#FFFFFF" style="background-color:#FFFFFF; border-radius:8px; font-family:'Montserrat', 'Century Gothic', 'Avenir Next', Avenir, 'Segoe UI', Arial, Helvetica, sans-serif;"><a href="tel:+493052015190" style="display:block; padding:9px 6px; color:#2E2E2D; text-decoration:none;"><span style="display:block; font-size:11px; line-height:14px; font-weight:700; letter-spacing:0.08em; text-transform:uppercase; color:#6F6F6E;">Deutschland</span><span style="display:block; margin-top:2px; font-size:14px; line-height:19px; font-weight:700; color:#506718;">+49 30 52015190</span></a></td></tr></table></td><td class="tel-pie" width="50%" valign="top" style="width:50%; padding:4px;"><table role="presentation" width="100%" cellpadding="0" cellspacing="0" border="0" style="border-collapse:separate; background-color:#FFFFFF; border-radius:8px;"><tr><td align="center" bgcolor="#FFFFFF" style="background-color:#FFFFFF; border-radius:8px; font-family:'Montserrat', 'Century Gothic', 'Avenir Next', Avenir, 'Segoe UI', Arial, Helvetica, sans-serif;"><a href="tel:+41445514031" style="display:block; padding:9px 6px; color:#2E2E2D; text-decoration:none;"><span style="display:block; font-size:11px; line-height:14px; font-weight:700; letter-spacing:0.08em; text-transform:uppercase; color:#6F6F6E;">Schweiz</span><span style="display:block; margin-top:2px; font-size:14px; line-height:19px; font-weight:700; color:#506718;">+41 44 551 40 31</span></a></td></tr></table></td></tr>
+                <tr><td class="tel-pie" width="50%" valign="top" style="width:50%; padding:4px;"><table role="presentation" width="100%" cellpadding="0" cellspacing="0" border="0" style="border-collapse:separate; background-color:#FFFFFF; border-radius:8px;"><tr><td align="center" bgcolor="#FFFFFF" style="background-color:#FFFFFF; border-radius:8px; font-family:'Montserrat', 'Century Gothic', 'Avenir Next', Avenir, 'Segoe UI', Arial, Helvetica, sans-serif;"><a href="tel:+43720145689" style="display:block; padding:9px 6px; color:#2E2E2D; text-decoration:none;"><span style="display:block; font-size:11px; line-height:14px; font-weight:700; letter-spacing:0.08em; text-transform:uppercase; color:#6F6F6E;">&#214;sterreich</span><span style="display:block; margin-top:2px; font-size:14px; line-height:19px; font-weight:700; color:#506718;">+43 720 145689</span></a></td></tr></table></td><td class="tel-pie" width="50%" valign="top" style="width:50%; padding:4px;"><table role="presentation" width="100%" cellpadding="0" cellspacing="0" border="0" style="border-collapse:separate; background-color:#FFFFFF; border-radius:8px;"><tr><td align="center" bgcolor="#FFFFFF" style="background-color:#FFFFFF; border-radius:8px; font-family:'Montserrat', 'Century Gothic', 'Avenir Next', Avenir, 'Segoe UI', Arial, Helvetica, sans-serif;"><a href="tel:+34928970605" style="display:block; padding:9px 6px; color:#2E2E2D; text-decoration:none;"><span style="display:block; font-size:11px; line-height:14px; font-weight:700; letter-spacing:0.08em; text-transform:uppercase; color:#6F6F6E;">Spanien</span><span style="display:block; margin-top:2px; font-size:14px; line-height:19px; font-weight:700; color:#506718;">+34 928 970 605</span></a></td></tr></table></td></tr>
               </table>
               <p style="margin:0 0 16px; font-size:12px; line-height:18px; color:#6F6F6E;">Santiago Ways &#183; Antonio Maria Manrique 3, 5&#186;, 12&#170; &#183; 35011 Las Palmas &#183; Spanien &#183; <a href="mailto:info@santiagoways.com" style="color:#6F6F6E; text-decoration:underline;">info@santiagoways.com</a></p>
               <p style="margin:0; font-size:12px; line-height:18px; color:#6F6F6E;">Sie erhalten diese E-Mail, weil Sie dem Erhalt unserer Mitteilungen zugestimmt haben.<br>Sie k&#246;nnen sich hier <a href="$[LI:UNSUBSCRIBE]$" target="_blank" style="color:#6F6F6E; text-decoration:underline;">abmelden</a> oder <a href="$[LI:SUB_PREF]$" target="_blank" style="color:#6F6F6E; text-decoration:underline;">Ihre Einstellungen &#228;ndern</a>.</p>

diff --git a/emails/2026-10-push-de-envio1/brief.md b/emails/2026-10-push-de-envio1/brief.md
@@ -28,7 +28,7 @@
 
 ## Enlaces aplicados
 
-- Cabecera (logo y "Web"): web DE con UTM `push_de` / `envio1`.
+- Cabecera (logo y dominio «santiagoways.com»): web DE con UTM `push_de` / `envio1`.
 - Botones "Rückruf anfordern" y "Ja, rufen Sie mich an": Zoho Forms `rueckruf`.
 - Rutas: Ab Sarria y Camino Portugués (Küstenweg, ab Baiona), con UTM.
 - Teléfonos: enlaces `tel:` en toda la tarjeta.
